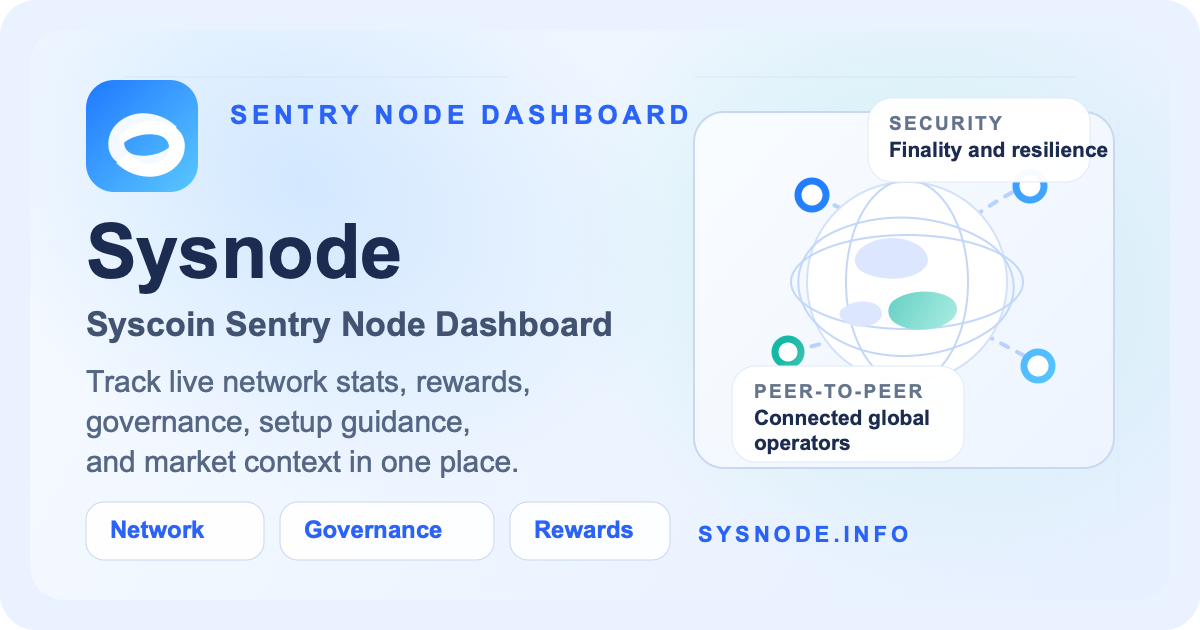
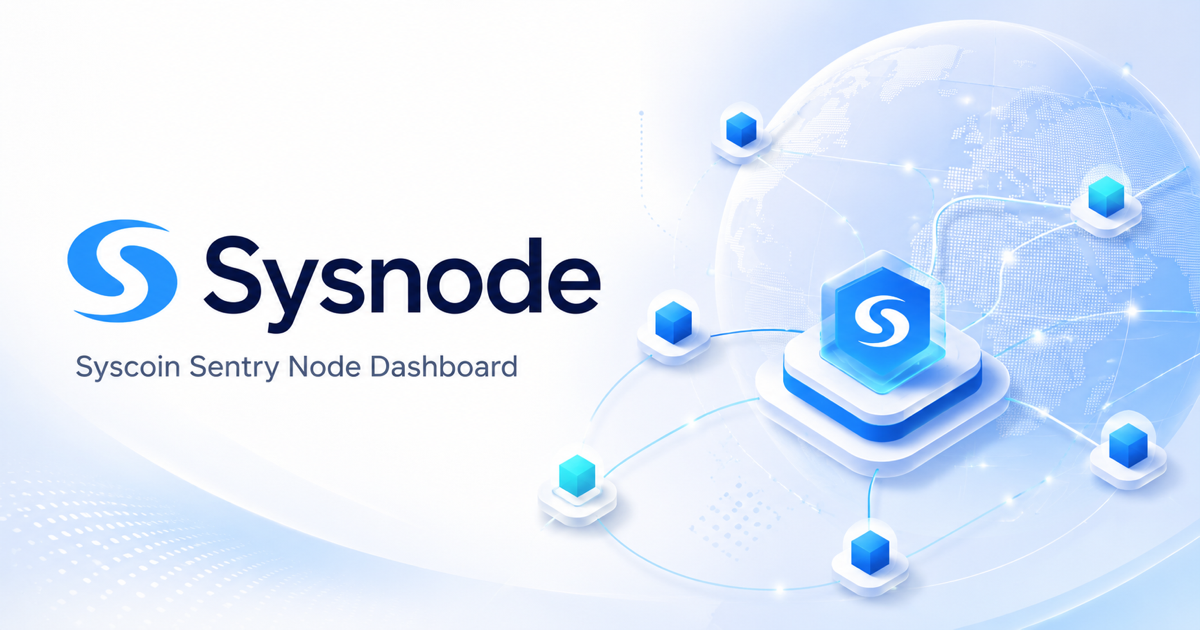
Use provided X share card artwork

diff --git a/public/index.html b/public/index.html
@@ -20,18 +20,18 @@
     <meta property="og:url" content="https://sysnode.info/" />
     <meta
       property="og:image"
-      content="https://sysnode.info/social-card.png?v=20260518"
+      content="https://sysnode.info/social-card.png?v=20260518b"
     />
     <meta
       property="og:image:secure_url"
-      content="https://sysnode.info/social-card.png?v=20260518"
+      content="https://sysnode.info/social-card.png?v=20260518b"
     />
     <meta property="og:image:type" content="image/png" />
     <meta property="og:image:width" content="1200" />
     <meta property="og:image:height" content="630" />
     <meta
       property="og:image:alt"
-      content="Sysnode share image showing the Syscoin Sentry Node dashboard brand and network illustration."
+      content="Sysnode social share card with the Syscoin logo, Sysnode wordmark, and a connected globe network illustration."
     />
     <meta name="twitter:card" content="summary_large_image" />
     <meta name="twitter:site" content="@syscoin" />
@@ -43,11 +43,11 @@
     />
     <meta
       name="twitter:image"
-      content="https://sysnode.info/social-card.png?v=20260518"
+      content="https://sysnode.info/social-card.png?v=20260518b"
     />
     <meta
       name="twitter:image:alt"
-      content="Sysnode share image showing the Syscoin Sentry Node dashboard brand and network illustration."
+      content="Sysnode social share card with the Syscoin logo, Sysnode wordmark, and a connected globe network illustration."
     />
     <title>Sysnode | Syscoin Sentry Node Dashboard</title>
     <link rel="manifest" href="%PUBLIC_URL%/manifest.json" />

diff --git a/src/components/PageMeta.js b/src/components/PageMeta.js
@@ -5,9 +5,9 @@ const DEFAULT_TITLE = 'Sysnode | Syscoin Sentry Node Dashboard';
 const DEFAULT_DESCRIPTION =
   'Live Syscoin Sentry Node stats, governance proposals, rewards, setup guidance, and market data.';
 const SITE_URL = 'https://sysnode.info';
-const SOCIAL_IMAGE_URL = `${SITE_URL}/social-card.png?v=20260518`;
+const SOCIAL_IMAGE_URL = `${SITE_URL}/social-card.png?v=20260518b`;
 const SOCIAL_IMAGE_ALT =
-  'Sysnode share image showing the Syscoin Sentry Node dashboard brand and network illustration.';
+  'Sysnode social share card with the Syscoin logo, Sysnode wordmark, and a connected globe network illustration.';
 const TWITTER_HANDLE = '@syscoin';
 
 function ensureMeta(selector, attributeName, attributeValue) {
